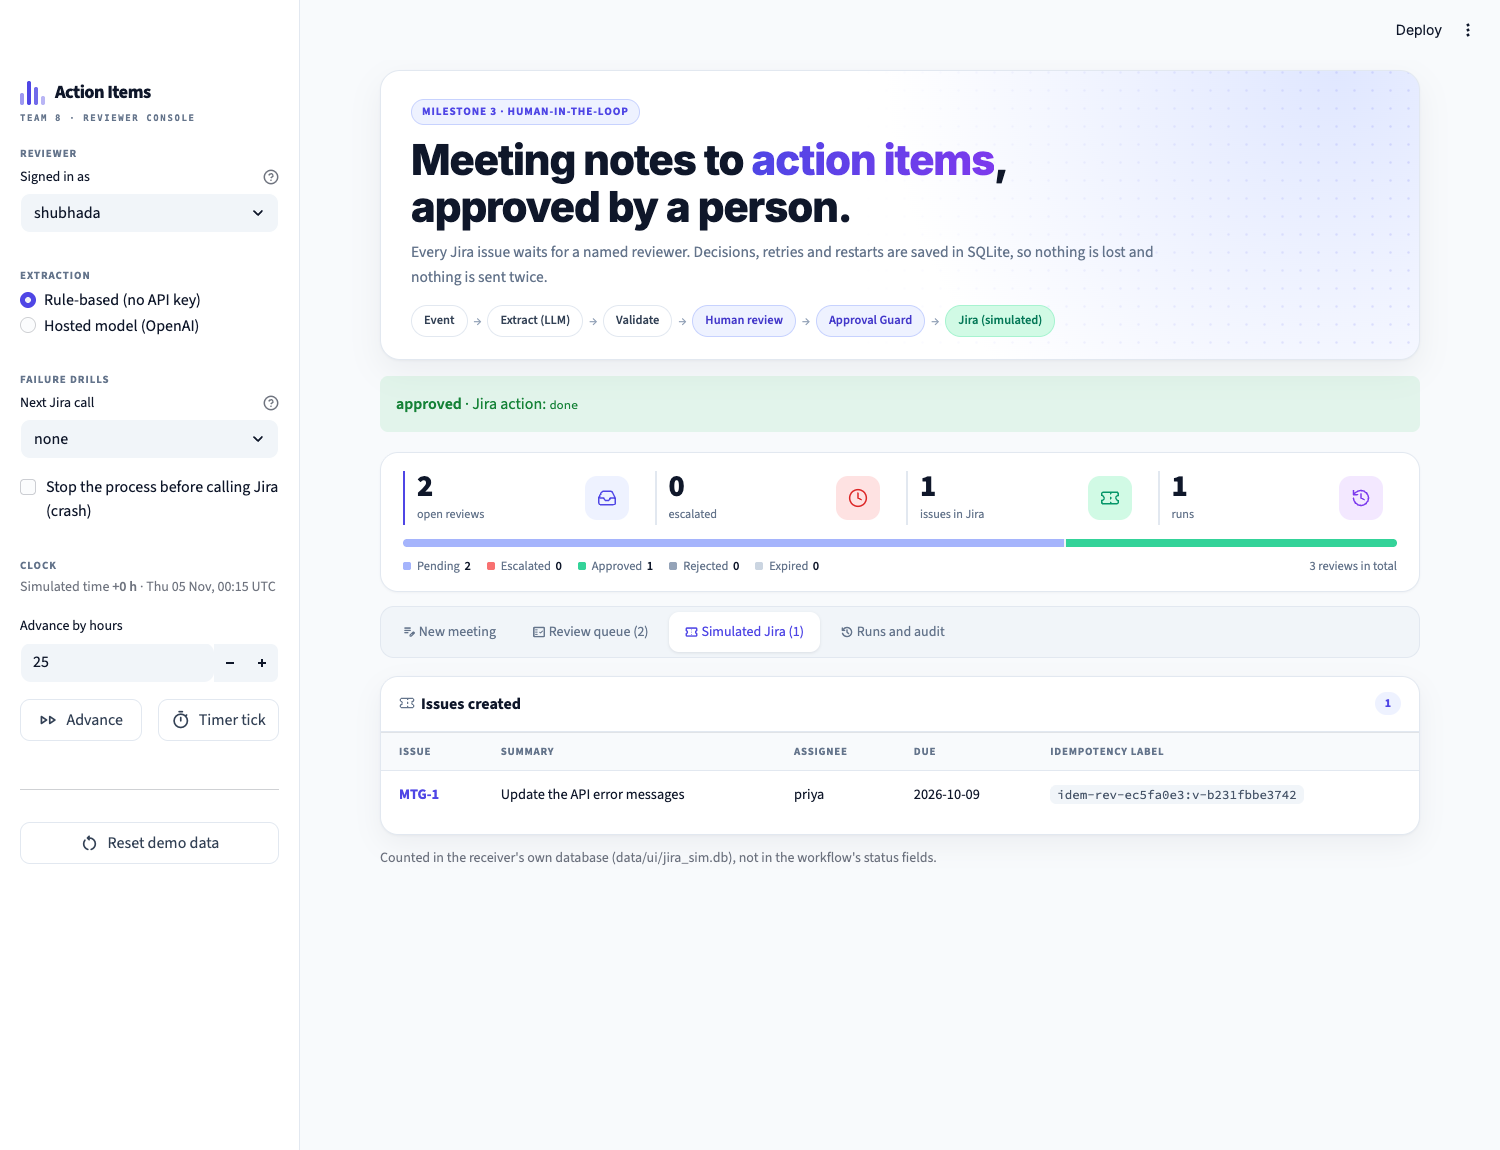
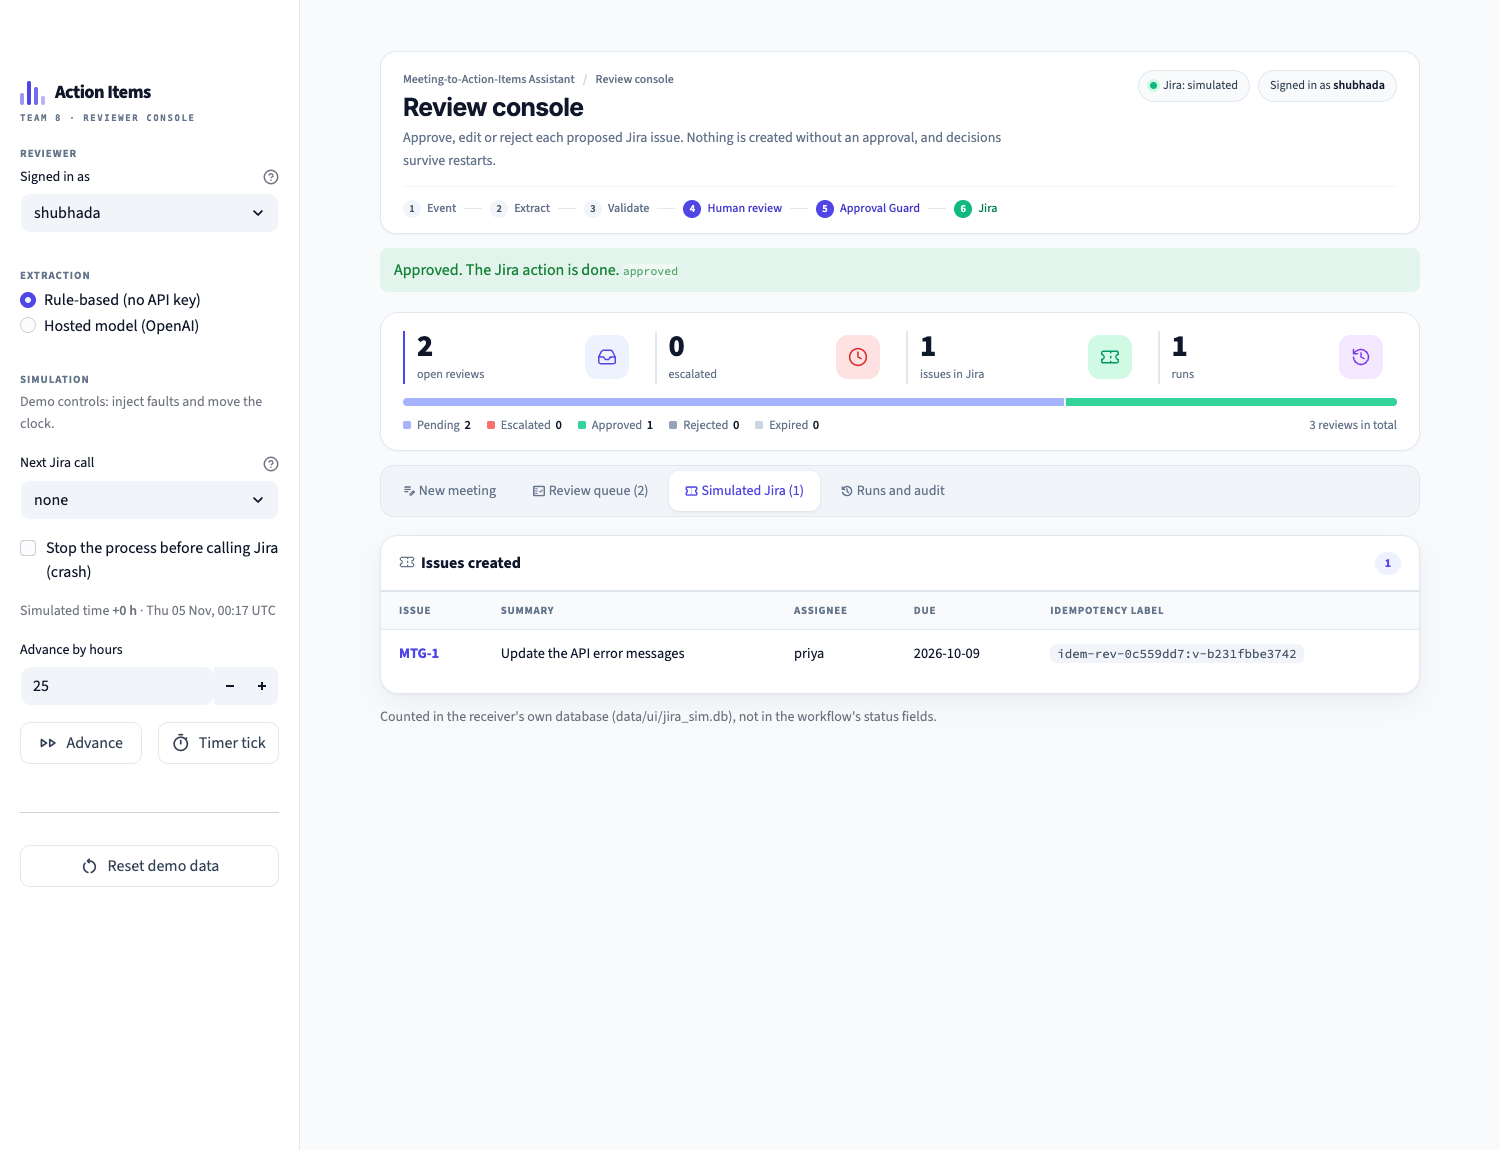
Professional polish for the reviewer app
Compact console header with breadcrumb, environment and reviewer chips
and a numbered pipeline; plain-language result messages that keep the
outcome code as a small tag; policy checks with rule badges; readable
column labels and run titles; demo controls grouped under Simulation;
Streamlit deploy menu hidden. Behaviour unchanged; all 40 tests pass.

diff --git a/app.py b/app.py
@@ -42,7 +42,7 @@ CSS = """
        --success:#047857; --success-soft:#D1FAE5; --warn:#92400E; --warn-soft:#FEF3C7; --warn-line:#FCD34D;
        --danger:#B91C1C; --danger-soft:#FEE2E2;}
 html, body, [class*="css"], .stMarkdown, .stTextInput, .stSelectbox, button {font-family: Inter, -apple-system, sans-serif;}
-.block-container {padding-top: 3.4rem; max-width: 1240px;}
+.block-container {padding-top: 2.2rem; max-width: 1240px;}
 h1, h2, h3 {font-family: Inter, -apple-system, sans-serif !important; font-weight: 700 !important; letter-spacing: -.025em;}
 
 /* sidebar */
@@ -54,24 +54,6 @@ h1, h2, h3 {font-family: Inter, -apple-system, sans-serif !important; font-weigh
 .brand-name {font-size: 1.15rem; font-weight: 800; color: var(--ink); letter-spacing: -.03em;}
 .brand-sub {font: 600 9px ui-monospace, Menlo, monospace; letter-spacing: 1.6px; color: var(--muted); margin-bottom: 4px;}
 .side-h {font-size: .68rem; font-weight: 700; letter-spacing: .09em; color: var(--muted); text-transform: uppercase; margin: 18px 0 2px;}
-
-/* hero */
-.hero {position: relative; isolation: isolate; overflow: hidden; border-radius: 20px; padding: 26px 30px 22px; margin-bottom: 16px;
-       background: radial-gradient(circle at 92% 0%, #E0E7FF 0, rgba(224,231,255,0) 45%), var(--card);
-       border: 1px solid var(--line); box-shadow: 0 1px 2px rgba(15,23,42,.04), 0 12px 32px rgba(15,23,42,.06);}
-.hero:before {content:''; position:absolute; inset:0; z-index:-1; background: DOTS; opacity:.18;
-              -webkit-mask-image: linear-gradient(270deg, #000, #0000 55%); mask-image: linear-gradient(270deg, #000, #0000 55%);}
-.eyebrow {display:inline-block; font-size: .7rem; font-weight: 700; letter-spacing: .08em; color: var(--primary); text-transform: uppercase;
-          background: var(--primary-soft); border: 1px solid var(--primary-line); border-radius: 999px; padding: 3px 10px;}
-.hero h1 {font-size: clamp(28px, 3.4vw, 42px); line-height: 1.1; margin: 12px 0 10px; padding: 0; color: var(--ink); font-weight: 800 !important;}
-.hero h1 em {font-style: normal; background: linear-gradient(90deg, #4F46E5, #7C3AED); -webkit-background-clip: text; background-clip: text; color: transparent;}
-.hero p {color: var(--muted); font-size: .97rem; margin: 0 0 16px; max-width: 760px;}
-.flow {display:flex; flex-wrap:wrap; gap:6px; align-items:center;}
-.step {padding: 5px 12px; border-radius: 999px; font-size: .78rem; font-weight: 600; border: 1px solid var(--line);
-       background: var(--card); color: #334155;}
-.step.human {background: var(--primary-soft); border-color: var(--primary-line); color: var(--primary-dark);}
-.step.jira {background: var(--success-soft); border-color: #A7F3D0; color: var(--success);}
-.arrow {color: #94A3B8; font-size: .8rem;}
 
 /* overview card */
 .overview {background: var(--card); border: 1px solid var(--line); border-radius: 18px; padding: 18px 22px 14px; margin: 4px 0 14px;
@@ -109,7 +91,8 @@ h1, h2, h3 {font-family: Inter, -apple-system, sans-serif !important; font-weigh
 .stTabs [aria-selected="true"] [data-testid="stIconMaterial"] {color: var(--primary);}
 
 /* white table card */
-.stApp, [data-testid="stAppViewContainer"], [data-testid="stHeader"] {background: var(--bg);}
+.stApp, [data-testid="stAppViewContainer"] {background: var(--bg);}
+[data-testid="stHeader"] {background: transparent;}
 .table-card {background: var(--card); border: 1px solid var(--line); border-radius: 18px; overflow: hidden; margin-top: 4px;
              box-shadow: 0 1px 2px rgba(15,23,42,.04), 0 10px 26px rgba(15,23,42,.05);}
 .tc-head {display:flex; align-items:center; justify-content:space-between; padding: 14px 18px; border-bottom: 1px solid var(--line);
@@ -129,6 +112,33 @@ table.issues code {background: var(--subtle); color: #475569; border-radius: 6px
 [data-testid="stSidebar"] [data-baseweb="select"] > div, [data-testid="stSidebar"] [data-baseweb="input"],
 [data-testid="stSidebar"] [data-baseweb="input"] input, [data-testid="stSidebar"] [data-testid="stNumberInputContainer"] button
     {background: var(--subtle) !important;}
+
+/* console header */
+.console {background: var(--card); border: 1px solid var(--line); border-radius: 16px; padding: 18px 22px 14px; margin-bottom: 14px;
+          box-shadow: 0 1px 2px rgba(15,23,42,.04);}
+.console-top {display:flex; justify-content:space-between; align-items:flex-start; gap: 16px;}
+.crumb {font-size: .75rem; color: var(--muted); font-weight: 500;} .crumb span {margin: 0 6px; color: #CBD5E1;}
+.console-title {font-size: 1.55rem !important; margin: 4px 0 4px !important; padding: 0 !important; color: var(--ink);}
+.console-sub {font-size: .88rem; color: var(--muted); max-width: 640px;}
+.chips {display:flex; gap: 8px; flex-wrap: wrap; justify-content:flex-end;}
+.chip {font-size: .76rem; color: #334155; background: var(--bg); border: 1px solid var(--line); border-radius: 999px; padding: 5px 11px;
+       white-space: nowrap;}
+.chip b {color: var(--ink);}
+.live {display:inline-block; width: 7px; height: 7px; border-radius: 50%; background: #10B981; margin-right: 6px; box-shadow: 0 0 0 3px #D1FAE5;}
+.steps {display:flex; align-items:center; gap: 8px; margin-top: 14px; padding-top: 12px; border-top: 1px solid var(--subtle); flex-wrap: wrap;}
+.stp {font-size: .76rem; color: var(--muted); font-weight: 500; display:flex; align-items:center; gap: 6px;}
+.stp b {display:grid; place-items:center; width: 18px; height: 18px; border-radius: 50%; font-size: .66rem; background: var(--subtle); color: #475569;}
+.stp.human {color: var(--primary-dark);} .stp.human b {background: var(--primary); color: #fff;}
+.stp.jira {color: var(--success);} .stp.jira b {background: #10B981; color: #fff;}
+.sep {flex: 0 0 18px; height: 1px; background: var(--line);}
+.policy {border-top: 1px solid var(--subtle); padding-top: 10px; margin-top: 2px;}
+.policy-h {font-size: .66rem; font-weight: 700; letter-spacing: .07em; text-transform: uppercase; color: var(--muted); margin-bottom: 6px;}
+.rule {display:flex; gap: 8px; align-items:flex-start; font-size: .82rem; color: #475569; margin-bottom: 4px;}
+.rid {flex-shrink:0; font: 700 .66rem ui-monospace, Menlo, monospace; color: var(--primary); background: var(--primary-soft);
+      border-radius: 5px; padding: 1px 5px; margin-top: 1px;}
+[data-testid="stAppDeployButton"], [data-testid="stMainMenu"], footer {display: none !important;}
+[data-testid="stAlertContainer"] {padding: 10px 14px !important; font-size: .9rem;}
+[data-testid="stAlert"] code {font-size: .72rem; opacity: .7; background: rgba(255,255,255,.6);}
 
 /* segmented tabs */
 .stTabs [data-baseweb="tab-list"] {background: var(--subtle); border: 1px solid var(--line); border-radius: 14px; padding: 5px; gap: 4px;}
@@ -224,12 +234,32 @@ def send(event: dict, crash: bool = False) -> dict:
     return result
 
 
+MESSAGES = {
+    "run_created": "Transcript received. {reviews} candidate task(s) are waiting for review.",
+    "approved": "Approved. The Jira action is {action}.",
+    "rejected": "Rejected. No Jira issue will be created for this item.",
+    "tick": "Timer processed: {escalated} review(s) escalated, {expired} expired.",
+    "duplicate_ignored": "Duplicate event ignored. This event ID was already processed, so nothing changed.",
+    "duplicate_content": "This meeting was already processed under another event ID. No new run was created.",
+    "needs_changes": "Needs changes. Set an owner and a due date before approving.",
+    "unauthorized": "Not authorized. Only the assigned reviewer, or the project lead after escalation, can decide.",
+    "stale_version": "The item changed after you opened it. Review the current version and decide again.",
+    "already_decided": "This review was already decided. Nothing changed.",
+    "late_ignored": "The review window has closed. The item was withheld and nothing was sent.",
+    "process_stopped": "Process stopped before calling Jira (crash drill). The approval is saved and is completed on restart.",
+    "malformed": "The event is missing required fields and was ignored.",
+    "unsupported_type": "Unknown event type. It was recorded and ignored.",
+    "run_failed": "Extraction failed. The run was stopped before review.",
+}
+
+
 def show_result(result: dict) -> None:
     outcome = result.get("outcome")
     actions = result.get("actions") or {}
-    text = f"**{outcome}**" + (f" — {result['detail']}" if result.get("detail") else "")
-    if actions:
-        text += "  ·  Jira action: " + ", ".join(f"`{status}`" for status in actions.values())
+    text = MESSAGES.get(outcome, "{outcome}").format(
+        outcome=outcome, reviews=len(result.get("reviews") or []), action=", ".join(actions.values()) or "queued",
+        escalated=len(result.get("escalated") or []), expired=len(result.get("expired") or []))
+    text += f"  `{outcome}`"
     if outcome in ("run_created", "approved", "rejected", "tick"):
         st.success(text)
     else:
@@ -288,12 +318,12 @@ with st.sidebar:
              disabled=not os.getenv("OPENAI_API_KEY"), help="The hosted option needs OPENAI_API_KEY in .env.",
              label_visibility="collapsed")
 
-    side_heading("Failure drills")
+    side_heading("Simulation")
+    st.caption("Demo controls: inject faults and move the clock.")
     st.selectbox("Next Jira call", ["none", "unavailable", "lose_confirmation"], key="fault_choice",
                  help="unavailable = 503, nothing created. lose_confirmation = issue created, reply lost.")
     st.checkbox("Stop the process before calling Jira (crash)", key="crash")
 
-    side_heading("Clock")
     now = datetime.now(timezone.utc) + timedelta(hours=ss["clock_offset_h"])
     st.caption(f"Simulated time **+{ss['clock_offset_h']} h** · {now:%a %d %b, %H:%M} UTC")
     hours = st.number_input("Advance by hours", min_value=1, max_value=200, value=25, step=1)
@@ -313,21 +343,19 @@ with st.sidebar:
         st.rerun()
 
 # ------------------------------------------------------------------ header
-st.markdown("""
-<div class="hero">
-  <div class="eyebrow">Milestone 3 · human-in-the-loop</div>
-  <h1>Meeting notes to <em>action items</em>,<br>approved by a person.</h1>
-  <p>Every Jira issue waits for a named reviewer. Decisions, retries and restarts are saved in SQLite,
-     so nothing is lost and nothing is sent twice.</p>
-  <div class="flow">
-    <span class="step">Event</span><span class="arrow">→</span>
-    <span class="step">Extract (LLM)</span><span class="arrow">→</span>
-    <span class="step">Validate</span><span class="arrow">→</span>
-    <span class="step human">Human review</span><span class="arrow">→</span>
-    <span class="step human">Approval Guard</span><span class="arrow">→</span>
-    <span class="step jira">Jira (simulated)</span>
-  </div>
-</div>""", unsafe_allow_html=True)
+steps = [("Event", ""), ("Extract", ""), ("Validate", ""), ("Human review", "human"), ("Approval Guard", "human"),
+         ("Jira", "jira")]
+st.markdown(
+    '<div class="console"><div class="console-top"><div>'
+    '<div class="crumb">Meeting-to-Action-Items Assistant <span>/</span> Review console</div>'
+    '<h1 class="console-title">Review console</h1>'
+    '<div class="console-sub">Approve, edit or reject each proposed Jira issue. Nothing is created without an approval, '
+    'and decisions survive restarts.</div></div>'
+    '<div class="chips"><span class="chip"><i class="live"></i>Jira: simulated</span>'
+    f'<span class="chip">Signed in as <b>{html.escape(reviewer)}</b></span></div></div>'
+    '<div class="steps">' + '<span class="sep"></span>'.join(
+        f'<span class="stp {kind}"><b>{n}</b>{label}</span>' for n, (label, kind) in enumerate(steps, 1)) + '</div></div>',
+    unsafe_allow_html=True)
 
 if ss["messages"]:
     show_result(ss["messages"][-1])
@@ -385,7 +413,9 @@ with tab_queue:
                     + '<div class="grid">' + field("Action", p["proposed_action"]["action"])
                     + field("Assignee", fields["assignee"]) + field("Due date", fields["due_date"]) + "</div>"
                     + ('<div class="conflict">' + icon("alert", 15) + '<span class="tag">Conflict</span>' + html.escape("; ".join(p["conflicts"])) + "</div>" if p["conflicts"] else "")
-                    + '<ul class="rules">' + "".join(f"<li>{html.escape(r)}</li>" for r in p["rules"]) + "</ul>",
+                    + '<div class="policy"><div class="policy-h">Policy checks</div>' + "".join(
+                        f'<div class="rule"><span class="rid">{html.escape(r.split(" ", 1)[0])}</span>{html.escape(r.split(" ", 1)[1])}</div>'
+                        for r in p["rules"]) + "</div>",
                     unsafe_allow_html=True)
             with right:
                 st.markdown(
@@ -437,19 +467,25 @@ with tab_runs:
     if not runs:
         st.info("No runs yet.")
     for run in runs:
-        with st.expander(f"{run['run_id']} · {run['meeting_id']} · {run['status']}"):
+        with st.expander(f"{run['meeting_id']}  ·  {run['status'].replace('_', ' ').capitalize()}  ·  {run['run_id']}"):
             st.markdown("**Reviews**")
             st.dataframe(wf.store.all("SELECT review_id, status, assigned_to, deadline FROM reviews WHERE run_id = ?",
-                                      run["run_id"]), width="stretch", hide_index=True)
+                                      run["run_id"]), width="stretch", hide_index=True,
+                         column_config={"review_id": "Review", "status": "Status", "assigned_to": "Reviewer", "deadline": "Deadline"})
             actions = wf.store.all("SELECT idempotency_key, status, attempts, jira_key, last_error FROM actions "
                                    "WHERE run_id = ?", run["run_id"])
             if actions:
                 st.markdown("**Outbox (external actions)**")
-                st.dataframe(actions, width="stretch", hide_index=True)
+                st.dataframe(actions, width="stretch", hide_index=True,
+                             column_config={"idempotency_key": "Idempotency key", "status": "Status", "attempts": "Attempts",
+                                            "jira_key": "Jira issue", "last_error": "Last error"})
             events = wf.store.one("SELECT state_json FROM runs WHERE run_id = ?", run["run_id"])["state_json"]["events"]
             st.markdown("**Audit trail**")
             st.dataframe([{k: e.get(k) for k in ("timestamp", "step", "event", "candidate_id", "result", "reason", "error")}
-                          for e in events], width="stretch", hide_index=True)
+                          for e in events], width="stretch", hide_index=True,
+                         column_config={"timestamp": "Time", "step": "Step", "event": "Event", "candidate_id": "Candidate",
+                                        "result": "Result", "reason": "Reason", "error": "Error"})
     with st.expander("Event inbox (every event_id and its outcome)"):
         st.dataframe(wf.store.all("SELECT event_id, type, received_at, outcome FROM inbox ORDER BY received_at DESC"),
-                     width="stretch", hide_index=True)
+                     width="stretch", hide_index=True,
+                     column_config={"event_id": "Event ID", "type": "Type", "received_at": "Received", "outcome": "Outcome"})
